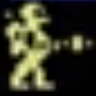
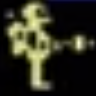
Add right movement animation

Changed region(s): [[0.0312, 0.0, 0.5938, 0.9688], [0.625, 0.3438, 1.0, 0.5312], [0.0312, 0.0938, 0.1562, 0.1875]]

diff --git a/warrior.c b/warrior.c
@@ -27,6 +27,10 @@ struct warrior *create_warrior(SDL_Renderer **renderer_pp)
     warrior_txtr = load_texture(renderer_pp, warrior_path);
     new_warrior->right2 = warrior_txtr;
 
+    warrior_path = WARRIOR_R3;
+    warrior_txtr = load_texture(renderer_pp, warrior_path);
+    new_warrior->right3 = warrior_txtr;
+
     warrior_path = WARRIOR_L0;
     warrior_txtr = load_texture(renderer_pp, warrior_path);
     new_warrior->left0 = warrior_txtr;
@@ -85,6 +89,36 @@ void move_right(struct warrior **warrior_pp)
     if (!collision_wall(x, y, &first_block))
     {
         warrior_ptr->pos.x = x;
+        warrior_ptr->up = true;
+
+        int sprite = warrior_ptr->current_sprite;
+        switch (sprite) //change sprite for visual movement effect
+        {
+        case RIGHT_0:
+            warrior_ptr->current_sprite = RIGHT_1;
+            warrior_ptr->current_txtr = warrior_ptr->right1;
+            break;
+
+        case RIGHT_1:
+            warrior_ptr->current_sprite = RIGHT_2;
+            warrior_ptr->current_txtr = warrior_ptr->right2;
+            break;
+
+        case RIGHT_2:
+            warrior_ptr->current_sprite = RIGHT_3;
+            warrior_ptr->current_txtr = warrior_ptr->right3;
+            break;
+
+        case RIGHT_3:
+            warrior_ptr->current_sprite = RIGHT_0;
+            warrior_ptr->current_txtr = warrior_ptr->right0;
+            break;
+        
+        default:
+            warrior_ptr->current_sprite = RIGHT_0;
+            warrior_ptr->current_txtr = warrior_ptr->right0;
+            break;
+        }
     }
 }
 
@@ -143,15 +177,18 @@ void move_down(struct warrior **warrior_pp)
 bool collision_wall(int x, int y, struct block **block_pp)
 {
     struct block *block_tmp = *block_pp;
-    if (block_tmp->next_block == NULL) //stop recursion
+    if (block_tmp == NULL) //stop recursion
         return false;
     else
     {
-        if (wor_collision_r(x, block_tmp->pos_x) || wor_collision_l(x, block_tmp->pos_x))
-        {                                                                                     //collision in x
+        if (wor_collision_r(x, block_tmp->pos_x) || wor_collision_l(x, block_tmp->pos_x)) //collision in x
             if (wor_collision_u(y, block_tmp->pos_y) || wor_collision_d(y, block_tmp->pos_y)) //collision in y
                 return true;
-        }
+
+        if (blk_collision_r(x, block_tmp->pos_x) || blk_collision_l(x, block_tmp->pos_x)) //collision in x with single block row
+            if (blk_collision_u(y, block_tmp->pos_y) || blk_collision_d(y, block_tmp->pos_y)) //collision in y with single block column
+                return true;
+
         return collision_wall(x, y, &block_tmp->next_block); //recursive call to compare next block in linked list
     }
 }
@@ -208,4 +245,35 @@ bool blk_collision_r(int x_wor, int x_block)
 {
     int x = x_block + B_WIDTH;
     return (x >= x_wor) && (x <= (x_wor + WOR_WIDTH));
+}
+
+/**
+ *Checks if left side of block collides with wor
+ *@param int x_wor
+ *@param int x_block
+ */
+bool blk_collision_l(int x_wor, int x_block)
+{
+    return (x_block >= x_wor) && (x_block <= (x_wor + WOR_WIDTH));
+}
+
+/**
+ *Checks if top side of block collides with wor
+ *@param int y_wor
+ *@param int y_block
+ */
+bool blk_collision_u(int y_wor, int y_block)
+{
+    return (y_block >= y_wor) && (y_block <= (y_wor + WOR_HEIGHT));
+}
+
+/**
+ *Checks if bottom side of block collides with wor
+ *@param int y_wor
+ *@param int y_block
+ */
+bool blk_collision_d(int y_wor, int y_block)
+{
+    int y = y_block + B_HEIGHT;
+    return (y >= y_wor) && (y_block <= (y_wor + WOR_HEIGHT));
 }

diff --git a/constants.h b/constants.h
@@ -9,6 +9,7 @@
 #define WARRIOR_R0 "resources/warrior/warrior_r0.png"
 #define WARRIOR_R1 "resources/warrior/warrior_r1.png"
 #define WARRIOR_R2 "resources/warrior/warrior_r2.png"
+#define WARRIOR_R3 "resources/warrior/warrior_r3.png"
 #define WARRIOR_L0 "resources/warrior/warrior_l0.png"
 #define WARRIOR_L1 "resources/warrior/warrior_l1.png"
 #define WARRIOR_L2 "resources/warrior/warrior_l2.png"
@@ -50,6 +51,7 @@ enum WOR_Sprites{
     RIGHT_0, 
     RIGHT_1, 
     RIGHT_2,
+    RIGHT_3,
     LEFT_0,
     LEFT_1, 
     LEFT_2,

diff --git a/warrior.h b/warrior.h
@@ -11,6 +11,7 @@ struct warrior{
     SDL_Texture *right0;
     SDL_Texture *right1;
     SDL_Texture *right2;
+    SDL_Texture *right3;
     SDL_Texture *left0;
     SDL_Texture *left1;
     SDL_Texture *left2;
